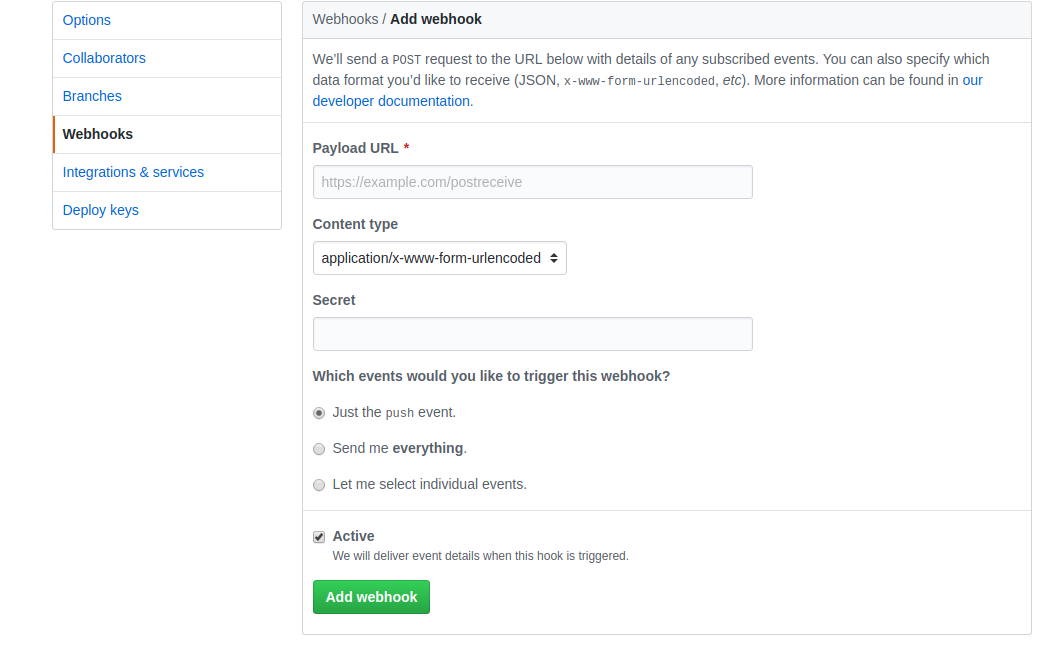
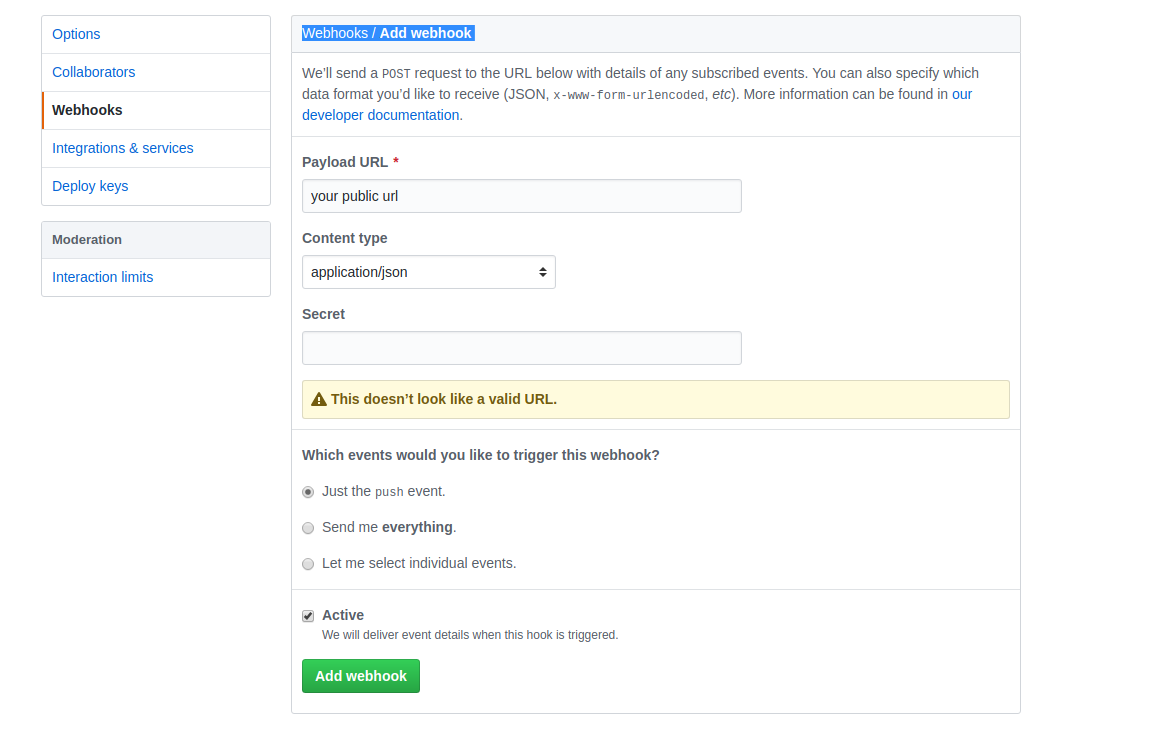
seperate keeping node app up to date into 2 seperate drafts

diff --git a/_posts/keeping-node-applications-up-to-date-by-syncing-with-github-repo.md b/_posts/keeping-node-applications-up-to-date-by-syncing-with-github-repo.md
@@ -19,37 +19,23 @@ Let say you have rasperry pi that is running your node app.
 Probably You don't want to pull the changes manually everytime just to see updates in your app? It could be great to have some kind of automated deployment, so your app is running up to date source code from github repository.  
 So I face this and tried solving it with teamcity and jenkins but those were to heavy for raspberry so I decided to write something more lightweight and today I will share it with You :).
 
-## Prerequirements
-There is one and only requirement to set it up (of course outside of github repo with nodejs app):
--  Public IP address 
+## Requirement
+To set it up, github has to know what to call, meaning server with node application needs to be exposed to public internet.
 
-It's needed because github requires an address that is visible from Internet, not only from behind your router(NAT).
+If that's the case great, if not then it has to be exposed.
+There are two options:
+- fully manual that require public ip and forwarding of port 5000 on router, you can read about it here
+- tools like ngrok, which do all the heavy lifting for you
 
-## Overview
+Eventually this public url will be used by github, it will send post request with information, that given repo has been updated.
+
+## Making it work
 To make it work:
 - Clone [the repo](https://github.com/UnderNotic/auto-deploy-raspberrypi){: .btn .btn--primary}{:target="_blank"} to raspberry pi or whatever device on which, nodejs app runs
-- Setup password needed for github hooks
-- Setup your router so it will forward internet network traffic to correct machine behind the router (in your NAT)
+- Setup password needed for github hooks and put it to secret.txt file placed in the root of cloned repo
 - Create github hook in your app repo so on push it will send a signal to koa webserver listening fo it
-- Run your node app using pm2/nodemon with file watch enabled so on github push app will be automatically reloaded
-
-## Setting up github hooks
-To configure github hooks, usually some work needs to be done on router side.
-Our nodejs app will be informed, that repo has been updated
-by post request send from github.
-To make that happend:
-- github needs to know what is `payload url`, which is location of the server
-- our server needs to be avaialable from Internet, therafore this requires unblocking port (5000 by default) on local router (router forwarding)  
-![image-center](/assets/images/keeping-node-applications-up-to-date-by-syncing-with-github-repo/new_forwarding.png){: .align-center }{:style="width: 100%"}
-- our server needs to be avaialable from Internet, therafore this requires unblocking port on local router (router forwarding)   
-
-![image-center](/assets/images/keeping-node-applications-up-to-date-by-syncing-with-github-repo/virtual-servers.png){: .align-center }{:style="width: 100%"}
-- 
-
-- 
 ![image-center](/assets/images/keeping-node-applications-up-to-date-by-syncing-with-github-repo/webhook.png){: .align-center }{:style="width: 100%"}
-- place your secret in txt file called secret.txt and place it in root of git-sync project
-- 
+- Run your node app using pm2/nodemon with file watch enabled so on github push app will be automatically reloaded
 
 ## Running git-sync
 
@@ -71,15 +57,15 @@ To ensure git-sync is running enter localhost on specified port:
 
 ## Note on the code
 If You'r interested in details, this is what exactly happens on every code change:
-    - github sends post request with metadata 
+- github sends post request with metadata
     - to which repo new code was just pushed
     - who made the push
-    - repo name is used to check if repo should be managed by `auto deploy???`
-    - tokens from request are checked using local secret to ensure reques was done by github
-    - repo code is reset - every dirty change is reseted
-    - repo code is cleaned - every added local file is removed
-    - new code is pulled 
-    - npm install all dependencies for production environment
+- repo name is used to check if repo should be managed by `git-sync`
+- tokens from request are checked using local secret to ensure request was done by github
+- repo code is reset - every dirty change is reseted
+- repo code is cleaned - every added local file is removed
+- new code is pulled
+- npm install all dependencies for production environment
 
 ```javascript
 router.post('/payload', async ctx => {
@@ -101,9 +87,7 @@ router.post('/payload', async ctx => {
 ## Last but not least - automatic server restarts - PM2
 By adding pm2 into the equation, You can have automatic server restarts every time code for app changes in other words pushing code to github will automatically refresh server to use the newest code, this is additionaly done gracefully without any hiccups.
 
-Once there is code in `~/mine_workspace/repo1` create pm service 2
-
-This service will starts on system startup and by default will watch directory for any code changes.
+Pm2 service will start on system startup and by default will watch directory for any code changes.
 If pm2 is too heavy, use nodemon as a replacement.
 
 Try it out and save your time :)

diff --git a/_posts/exposing-local-server-to-the-public-internet.md b/_posts/exposing-local-server-to-the-public-internet.md
@@ -1,0 +1,31 @@
+---
+title: "Exposing local server to the public internet"
+excerpt: "Your server visible everywhere"
+header:
+ teaser:
+tags: 
+  - raspberrypi
+  - raspberry
+  - router
+  - internet
+  - webhook
+  - server
+---
+
+In days when we have cloud operator liek azure,aws
+On other hand with iot beign a thing, sometimes we want to have some device sitting in our private home network behind router nat accessible from internet.
+
+To configure github hooks, usually some work needs to be done on router side.
+Our nodejs app will be informed, that repo has been updated
+by post request send from github.
+To make that happend:
+- github needs to know what is `payload url`, which is location of the server
+- our server needs to be avaialable from Internet, therafore this requires unblocking port (5000 by default) on local router (router forwarding)  
+![image-center](/assets/images/keeping-node-applications-up-to-date-by-syncing-with-github-repo/new_forwarding.png){: .align-center }{:style="width: 100%"}
+- our server needs to be avaialable from Internet, therafore this requires unblocking port on local router (router forwarding)   
+
+![image-center](/assets/images/keeping-node-applications-up-to-date-by-syncing-with-github-repo/virtual-servers.png){: .align-center }{:style="width: 100%"}
+- 
+
+- 
+![image-center](/assets/images/keeping-node-applications-up-to-date-by-syncing-with-github-repo/webhook.png){: .align-center }{:style="width: 100%"}
